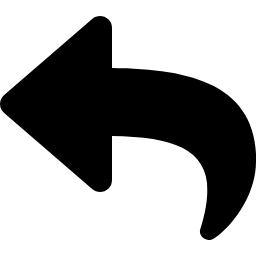
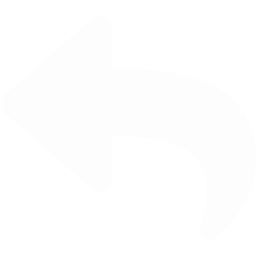
change colour theme

diff --git a/index.css b/index.css
@@ -1,3 +1,7 @@
+/* colours 
+["333333","ccfccb","ef798a","95a3b3","3f84e5"]
+*/
+
 @font-face {
     font-family: Bungee;
     src: url("Bungee-Regular.ttf") format("truetype");
@@ -7,12 +11,17 @@ html, body{
     margin : 0;
     padding: 0;
     font-family: 'Bungee';
+    background-color: #333;
+    color:#fff;
+}
+
+*:focus{
+    outline:none;
 }
 
 h1,h2,h3,h4,h5,h6{
     font-family: 'Bungee';
     letter-spacing: 0.1em;
-    color: #333;
     text-align: center;
 }
 
@@ -36,7 +45,7 @@ h1,h2,h3,h4,h5,h6{
   #loading{
       width: 100%;
       height: 100%;
-      background-color: white;
+      background-color: #333;
       position: absolute;
       top:0;
       left:0;
@@ -51,8 +60,8 @@ input{
 
 button{
     border: 0;
-    background-color: #333;
-    color: white;
+    background-color: #3f84e5;
+    color: #fff;
     font-size: 1em;
     width: 6em;
     height: 6em;
@@ -66,6 +75,18 @@ button{
 
 button:hover{
     transform: scale(1.1); 
+}
+
+.buttonContainer{
+    display:inline-flex;
+}
+
+#openFolder, #okayButton{
+    margin:1em;
+}
+
+#openFolder{
+    background-color: #95a3b3;
 }
 
 .plainText{

diff --git a/renderer.js b/renderer.js
@@ -1,4 +1,4 @@
-const {ipcRenderer} = require('electron')
+const {ipcRenderer,shell} = require('electron')
 let options
 let uiElements
 
@@ -23,6 +23,9 @@ function init(){
   })
   document.getElementById("back").addEventListener("click", ()=>{
     setView("open")
+  })
+  document.getElementById("openFolder").addEventListener("click", ()=>{
+    shell.openPath(options.path)
   })
 }
 
@@ -67,7 +70,7 @@ function drawPreview(){
   options.padding = document.getElementById("padding").value
 
   //console.log(`${noFiles} files, they are ${fileList}, with ${columns} columns, a width of ${width} and color ${colour}`)
-  let padding = Math.floor(inputpadding/100 * canvas.width)
+  let padding = Math.floor(inputpadding/100 * canvas.width)*2
   let previewWidth = canvas.width
   let columnWidth = previewWidth/columns
   let rows = Math.ceil(noFiles/columns)

diff --git a/index.html b/index.html
@@ -52,7 +52,10 @@
         <div class="center">
             <p>Saved File to </p>
             <p id="savedText" class="plainText"></p>
-            <button id="okayButton">Okay</button>
+            <div class="buttonContainer">
+                <button id="okayButton">Okay</button>
+                <button id="openFolder">Open Folder</button>
+            </div>
         </div>
     </div>
 </body>
